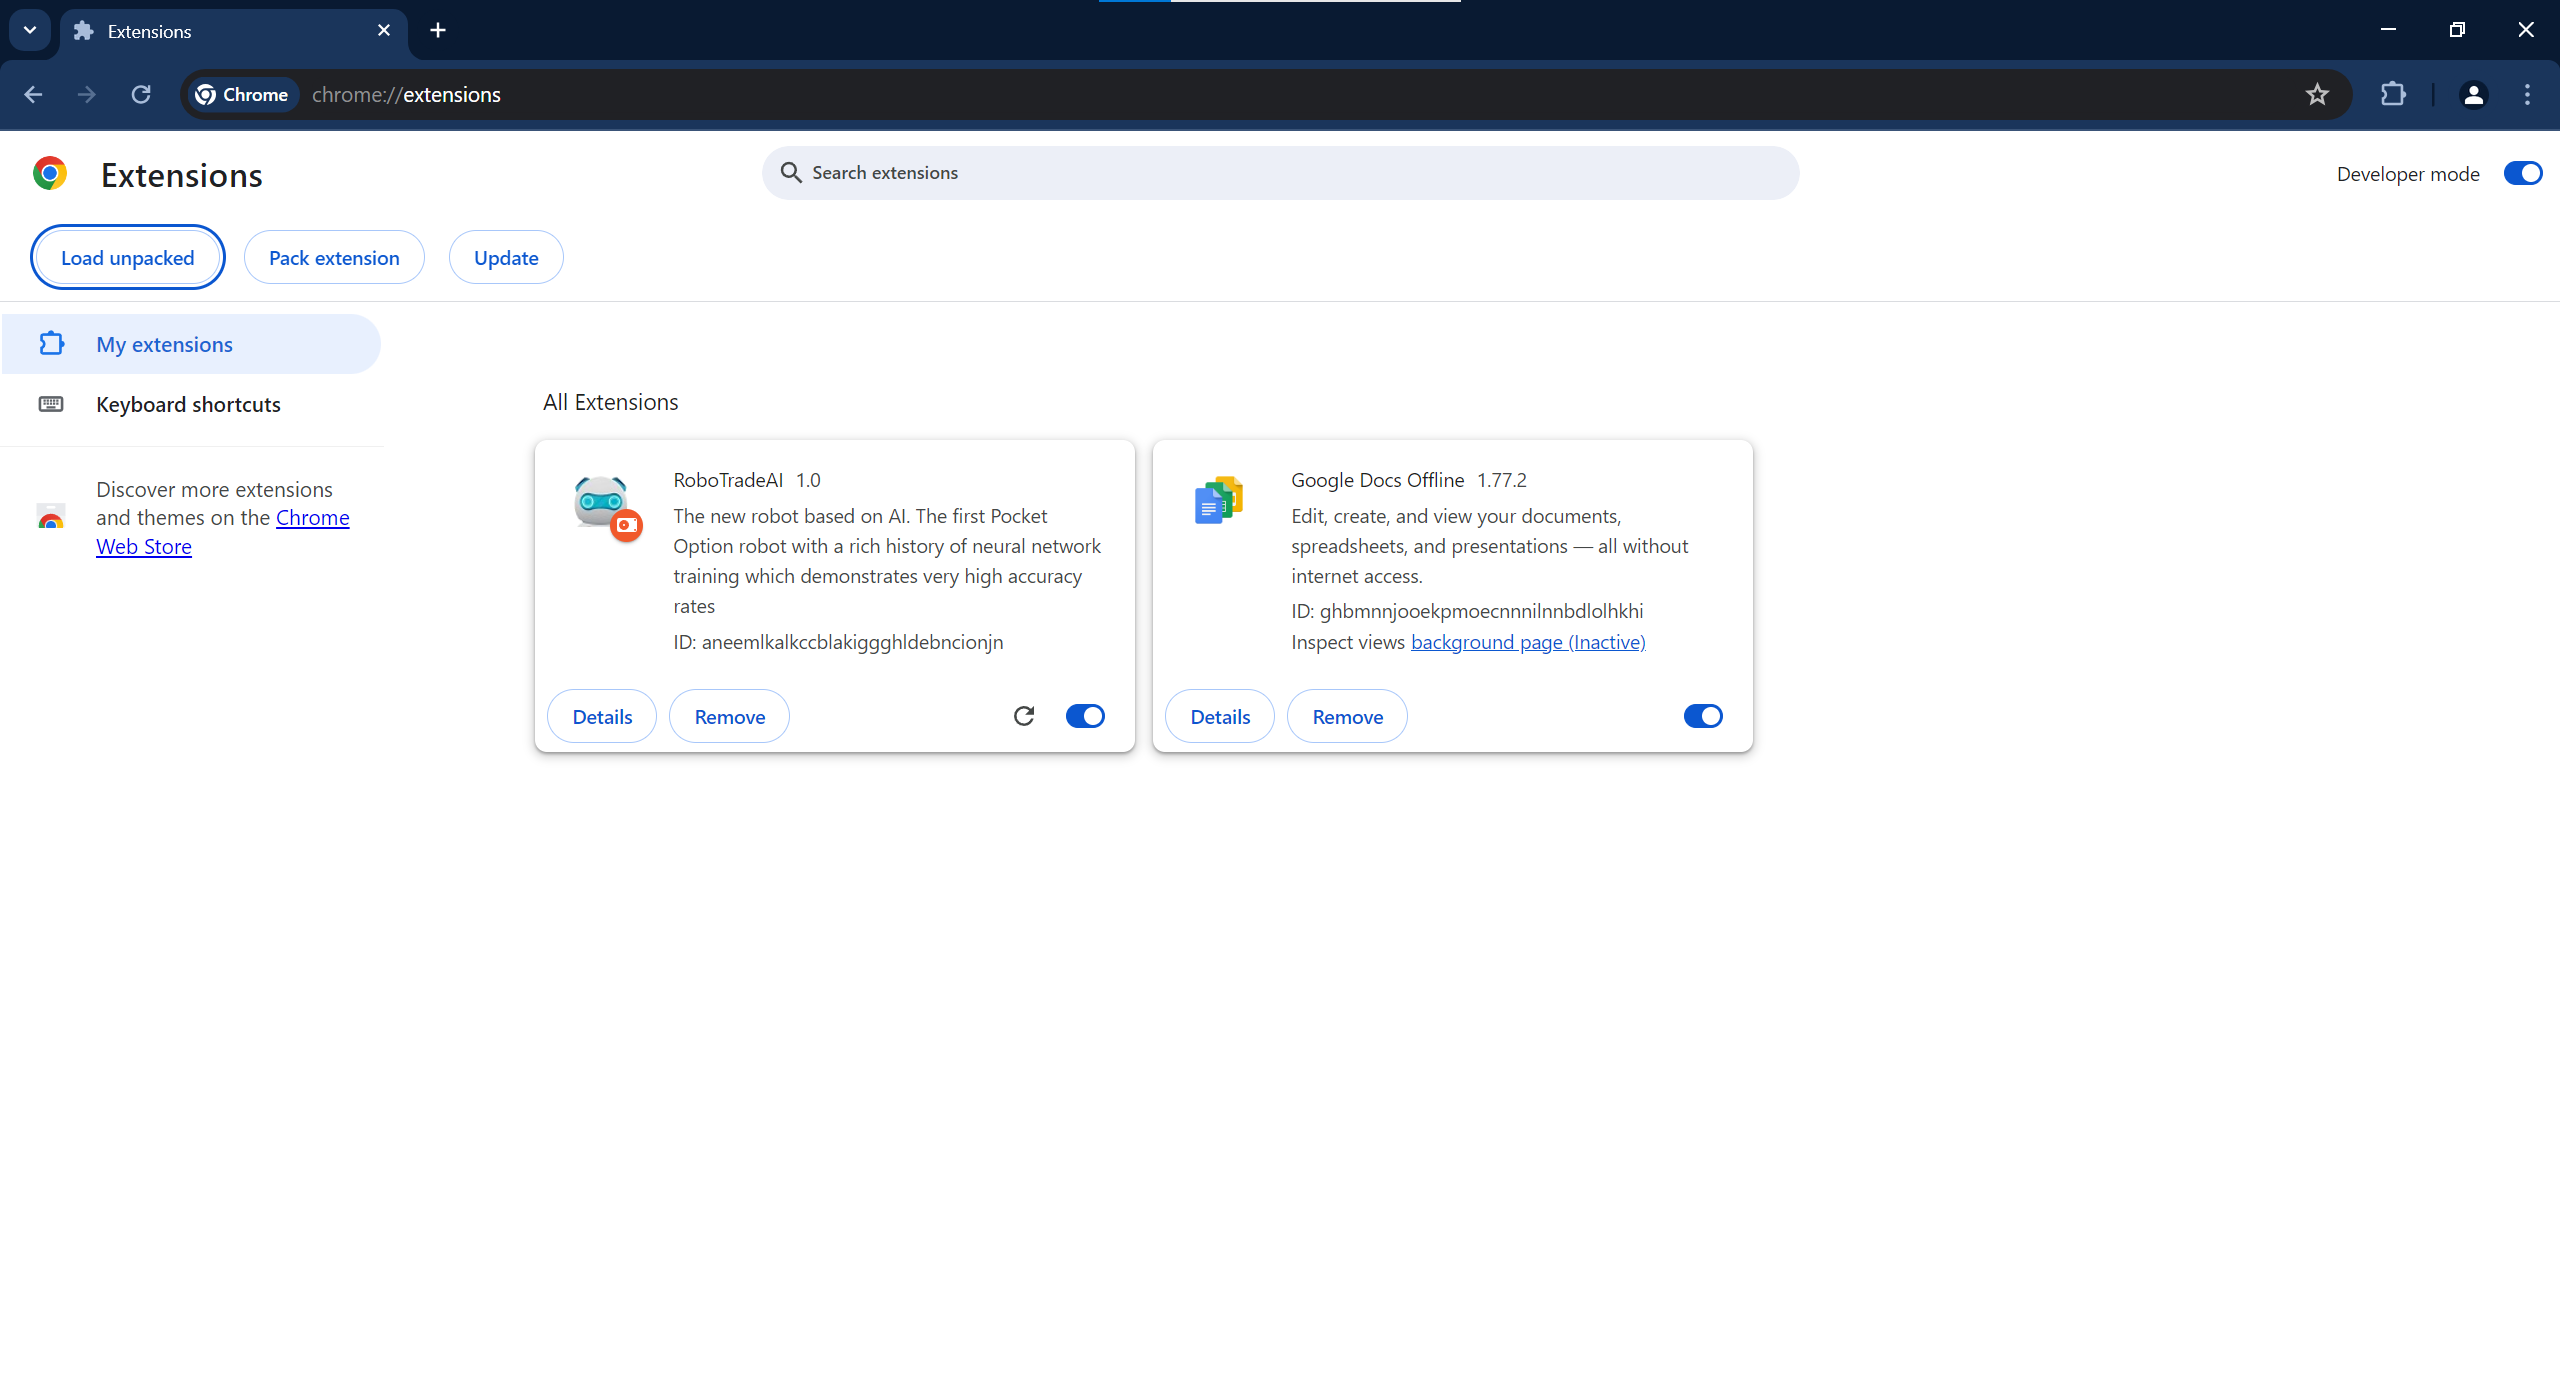
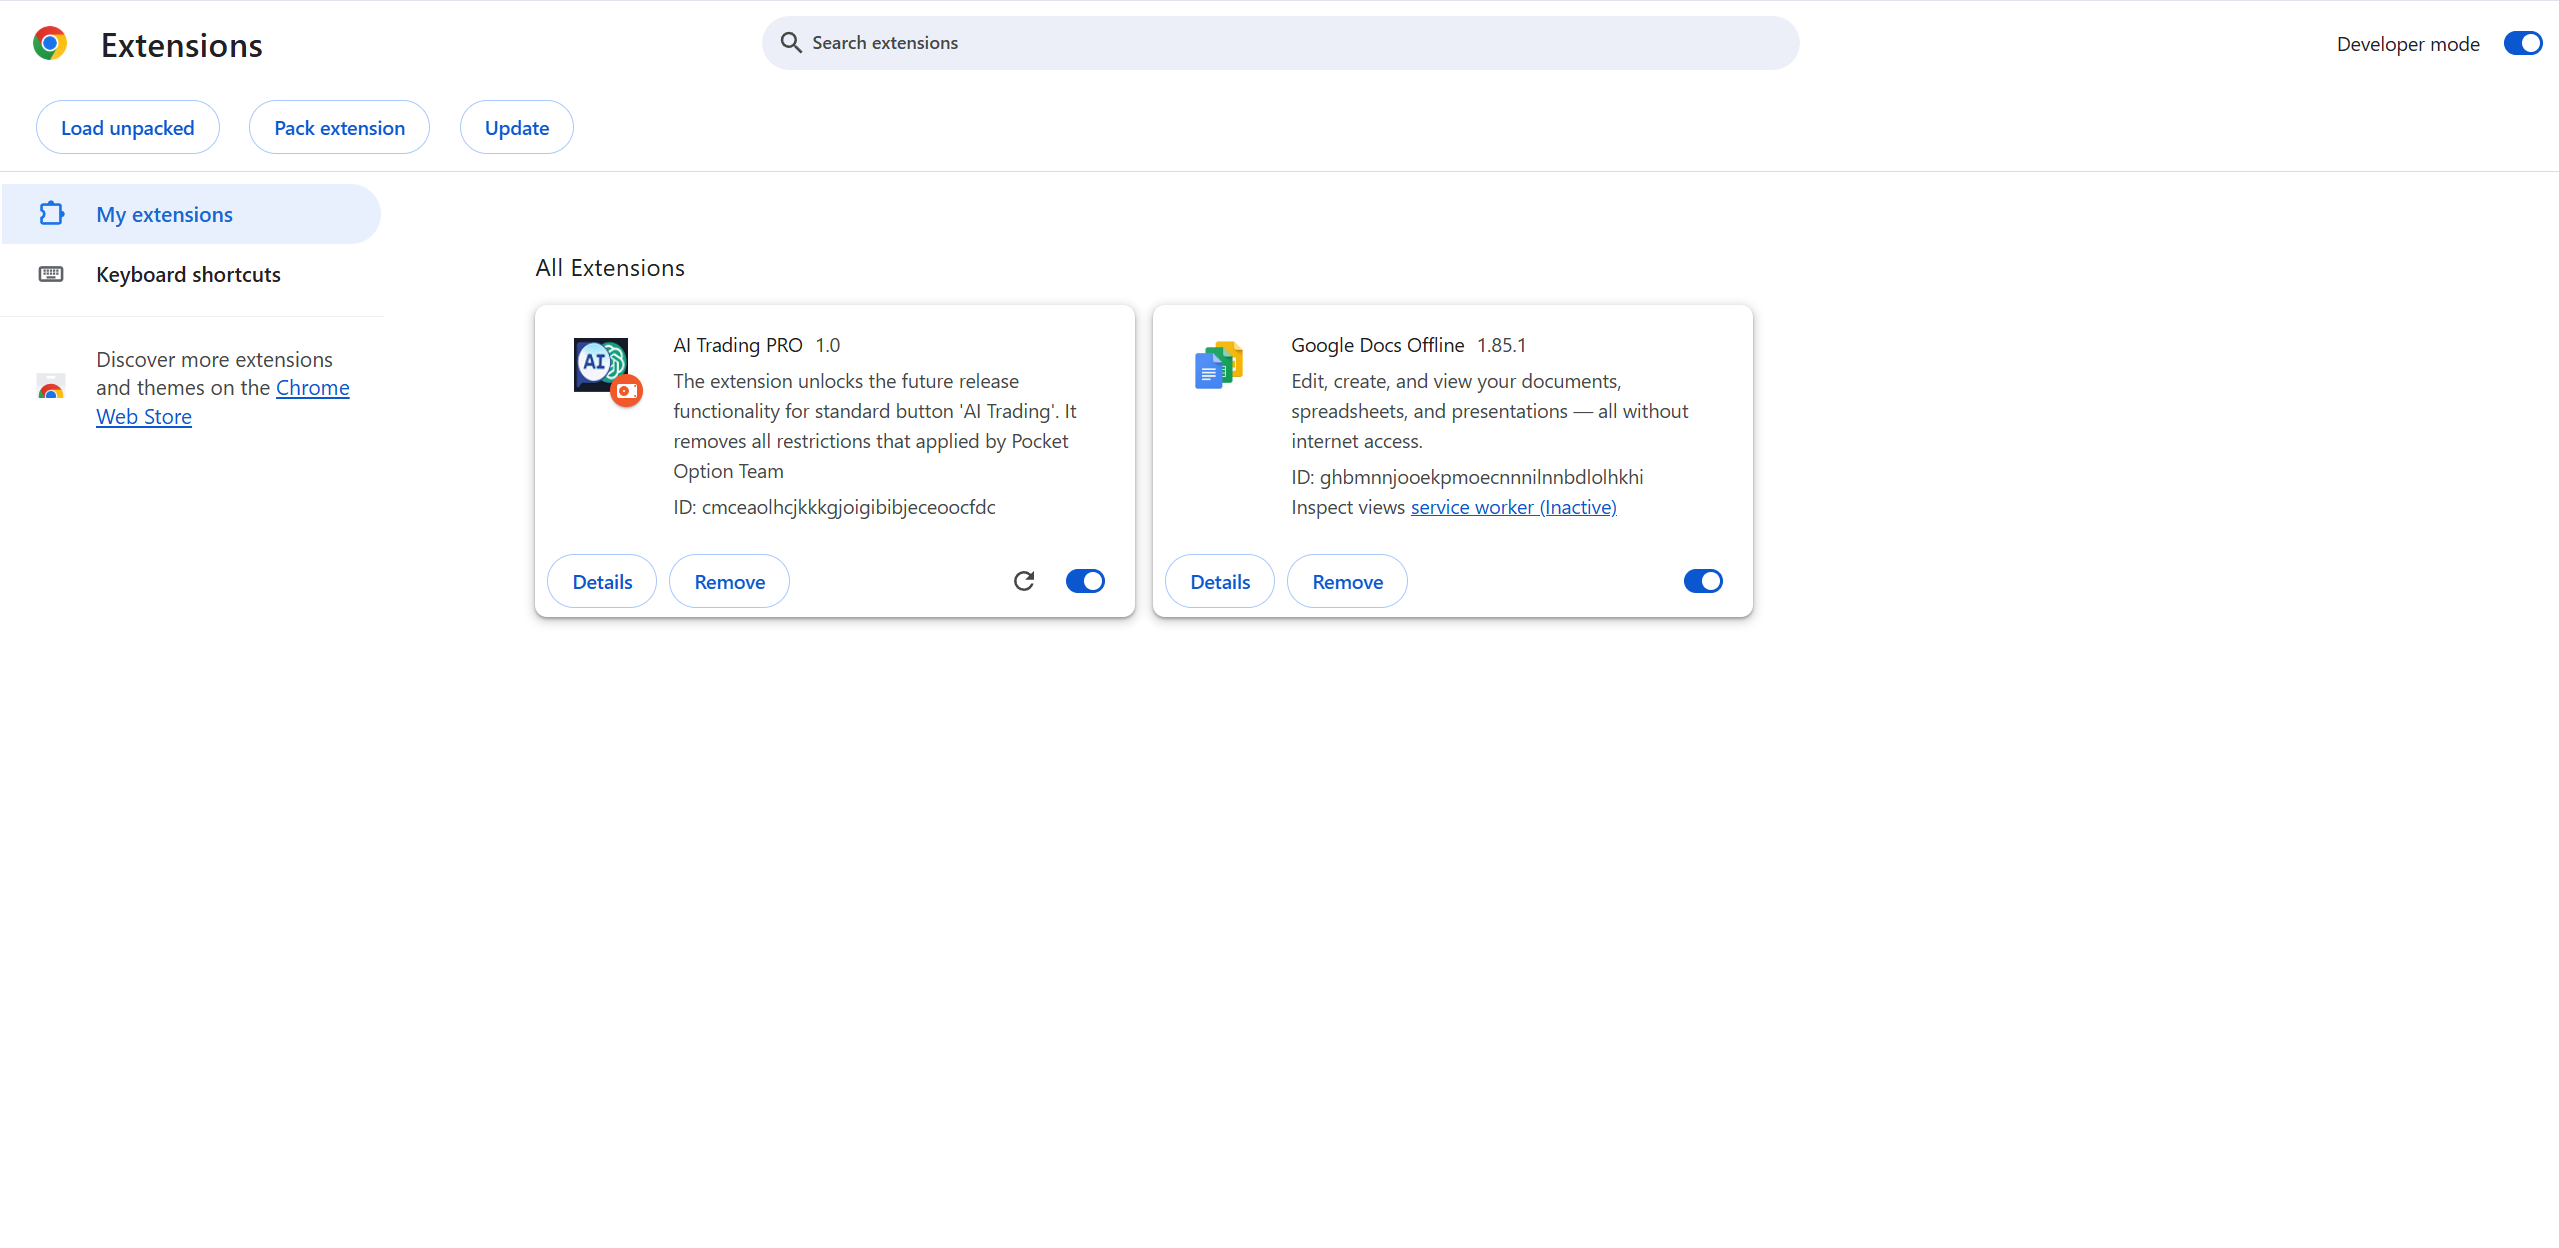
Ре-брендинг в GPT Trading. Initial commit

Changed region(s): [[0.0, 0.0, 1.0, 0.4062], [0.2161, 0.25, 0.6792, 0.5625], [0.1852, 0.1875, 0.247, 0.2188]]

diff --git a/answers.js b/answers.js
@@ -15,8 +15,8 @@ const sendNavigationMenu = async (bot, msg) => {
     await bot.sendMessage(msg.chat.id, `Choose the navigation option below 👇`, {
         reply_markup: {
             keyboard: [
-                ['🤖 Get robot', '📝 How to use'],
-                ['🧠 How the robot works', '⚙ How to install robot']
+                ['֎🤖 Get robot', '📝 How to use extension'],
+                ['🧠 How the robot works', '⚙ How to install GPT Extension']
             ],
             one_time_keyboard: true
         }
@@ -24,44 +24,23 @@ const sendNavigationMenu = async (bot, msg) => {
 };
 
 const sendRobotDescriptionAndPurchaseMethod = async (bot, msg) => {
-    await bot.sendPhoto(msg.chat.id, './images/premium.png');
+    await bot.sendPhoto(msg.chat.id, './images/ai-trading-extension.png');
+    await bot.sendPhoto(msg.chat.id, './images/ai-trading-button.png');
     await bot.sendMessage(msg.chat.id, 
-        '📋 Our team provides work in three variations that differ in the purpose of their use\n\n' +
-        '1. <u>Basic</u>\n\n The robot is used as an assistant for your trading and is not used independently to make decisions on which way to put options.\n' + 
-        'This robot includes analysis algorithms based on the <i>RSI, MACD, Alligator and Stochastic Oscillator indicators.</i>\n\n' +
-        'By purchasing this version of robot you receive:\n\n' +
-        '• Probability of loss <i>~29.76%</i>\n' +
-        '• The limit on the profit earned at the expense of the robot\n' +
-        '• The maximum number of profitable trades per day received at the expense of the robot is <i>7</i>\n\n' +
-        '<i>💲 Price: <s>99$</s> 59$</i>\n\n' +
-        "2. <u>Standard</u>\n\n You get a robot that automatically puts options at the touch of a button." + 
-        "You don't need to analyze the market yourself. The robot will do it for you\n" +
-        'The robot uses K-means clustering and Gaussian mixture model algorithms. \n' +
-        'This version is trained using 53 models since 2020 based on market history since 1989,' + 
-        'which means that the robot almost accurately determines price movement at any time, since it has already analyzed a similar historical situation\n\n' +
-        'By purchasing this version of smart robot you receive to follow:\n\n' +
-        '• Probability of loss <i>~2.31%</i>\n' +
-        '• The maximum daily limit of profit trades by robot: <b>30</b>\n' +
-        '• The maximum of successful options in row by robot: <b>7</b>\n' +
-        '• The detailed guide on when to use the robot most effectively\n' +
-        '• The personal manager to support all your robot trading process\n' +
-        '• The limit on the profit received from the robot is $5,000 per day\n\n' +
-        '<i>💲 Price: <s>150$</s> 119$</i>\n\n' +
-        '3. <u>Premium ⭐(photo)</u>. You will get the smartest version of robot and removed limits from Standard\n\n' +
-        'By purchasing this version of smart robot you receive to follow:\n\n' +
-        '• Probability of loss <i>~0.37%</i>' +
-        '• The maximum daily limit of profit trades by robot: <b>∞</b>\n' +
-        '• The maximum of successful options in row by robot: <b>∞</b>\n' +
-        '• The detailed guide on when to use the robot most effectively\n' +
-        '• The personal manager to support all your robot trading process\n' +
-        '• The limit on the profit received from the robot is <b>∞</b> per day\n\n' +
-        '<i>💲 Price: <s>899$</s> 499$</i>\n\n' +
-        '👉 If you have any questions you can ask it here: <i>@robotradeaimanager</i>',
+        '🧾 We provide two methods of purchasing extension functionality\n\n' +
+        '1. 💳 Fix price.\n' +
+        'You can choose the preferred payment method and buy access to extension.\n' +
+        "This method doesn't require re-register your main account in order to become our partner\n" +
+        "Once you pay - you have unlimitted extension licence.\n\n" +
+        '2. 🆓 Free method.\n' +
+        'You get an extension after you become our partner. You need to register a new account by our link ' +
+        'and after that the manager gives you extension files\n\n' +
+        'Choose the preferred one 👇👇👇',
         {
             parse_mode: 'HTML',
             reply_markup: {
                 keyboard: [
-                    ['💳 I want to get a robot']
+                    ['💳 Fix price', '🆓 Free']
                 ],
                 one_time_keyboard: true
             }
@@ -83,12 +62,12 @@ const sendFreePurchaseCountry = async (bot, msg) => {
 
 const sendFreePurchaseSteps = async (bot, msg) => {
     await bot.sendMessage(msg.chat.id, 
-        '👇👇👇 Below is step-by-step instruction for getting a robot\n\n' +
+        '👇👇👇 Below is step-by-step instruction for getting an extension\n\n' +
         '🔗 1. Register a new account using the link provided below\n' +
-        '🔝 2. Top up your account balance minimum at least 50$\n' +
-        '✍🏽 3. Copy your ID from profile tab (photo below) and send to robot in message field\n' +
-        '🤖 4. If your profile is registered correctly, the robot generates the extension for you\n\n' + 
-        '👉 Register link: <a href="https://pocket1.click/smart/4jlv8RwNpcPNtF">Go and register</a>\n\n' +
+        '🔝 2. Top up your account balance minimum at 100$\n' +
+        '✍🏽 3. Copy your ID from profile tab (photo below) and send to TG bot in message field\n' +
+        '🤖 4. If your profile is registered correctly, the TG bot generates the extension for you\n\n' + 
+        '👉 Register link: <a href="https://u.shortink.io/smart/4jlv8RwNpcPNtF">Go and register</a>\n\n' +
         '💡💡💡 <i>Advice: We highly recommend to top up your account with <b>200$</b></i>', {
             parse_mode: 'HTML',
             reply_markup: {
@@ -99,14 +78,13 @@ const sendFreePurchaseSteps = async (bot, msg) => {
             }
         }
     );
-    await bot.sendPhoto(msg.chat.id, './images/profile-id.png');
 };
 
 const sendCheckProfileID = async (bot, msg) => {
-    await bot.sendMessage(msg.chat.id, 'Send your profile ID here in the following format: <b>ID: [your profile ID]</b>', {
+    await bot.sendMessage(msg.chat.id, 'Send your <i>profile ID</i> <b>here in the chat</b>', {
         parse_mode: 'HTML'
     });
-    sendNavigationMenu(bot, msg);
+    //sendNavigationMenu(bot, msg);
 };
 
 const sendCheckProfileIDRussian = async (bot, msg) => {
@@ -234,15 +212,11 @@ const sendPaidPurchaseByEthereum = async (bot, msg, price) => {
 
 const sendHowToUseRobot = async (bot, msg) => {
     await bot.sendMessage(msg.chat.id, 
-        '✅ 1. Install the extension that our manager provided\n<i>For more information on the installation instructions, see the <b>«Install extension» section</b></i>\n' +
-        '✅ 2. In the amount field, enter the amount of the transaction you want the robot to open\n' +
-        '✅ 3. Choose «Use overlap» checkbox to turn on overlap mode.\n' +
-        '✅ 4. Choose «Is live trading» if you are going to trade real market (not OTC)\n' +
-        '✅ 5. Press «Start» button\n' + 
-        '✅ 6. The robot opens an option for the expiration time that you choose on the trading platform\n' +
-        "⚠ 7. Don't close the robot extension or active browser tab. This may result in the robot not functioning correctly\n" +
-        '✅ 8. Wait for the robot to analyze\n' +
-        '✅ 9. Take your profit 💲💲💲',
+        '✅ 1. Install the provided extension\n<i>For detail information on how to install Chrome extension, click the <b>«How to install GPT Extension»</b> button in the main menu</i>\n\n' +
+        '✅ 2. Open the popup window clicking by <i>GPT Trading logo</i> in the right upper corner of the Chrome browser\n\n' +
+        '✅ 3. Then click <b>«Yes»</b> to activate the extension\n\n' +
+        '✅ 4. After that the AI Trading button changes the apperance to Red background with the label <b>«PRO»</b>\n\n' +
+        '✅ 5. The button is ready to use 💲💲💲\n',
         {
             parse_mode: 'HTML'
         }
@@ -252,15 +226,12 @@ const sendHowToUseRobot = async (bot, msg) => {
 
 const sendHowTheRobotWorks = async (bot, msg) => {
     await bot.sendMessage(msg.chat.id, 
-        '🧠🧠🧠 The bot is a trainable neural network using the elastic propagation method\n' +
-        '🏋🏋🏋 The robot was developed in 2019 and has been trained for 5 years on the basis of market indicators over the past 25 years, which gives ultra-high indicators of forecasting accuracy\n' +
-        '🕗🕗🕗 The robot does not hack the brokerage infrastructure in any way and gives a forecast based on training from a sample of early forecasts\n\n' +
-        '<b>A statistics of robot accurancy by years: </b>\n' +
-        '• By 01.01.2020 - 67.49% of negative predictions\n' +
-        '• By 01.01.2021 - 38.24% of negative predictions\n' +
-        '• By 01.01.2022 - 11.71% of negative predictions\n' +
-        '• By 01.01.2023 - 4.28% of negative predictions\n' +
-        '• By 01.01.2024 - 0.487% of negative predictions',
+        "📜 GPT Trading is the seamless integration of Pocket Option's newly introduced AI trading functionality with the power of GPT-based artificial intelligence.\n" + 
+        "This innovation goes beyond analyzing the market using predefined patterns and signals — it actively minimizes unsuccessful trades with every subsequent use." + 
+        "Curious how it works? Let us explain. It’s no secret that GPT chat is a self-learning neural network that gained popularity for its ability to provide high-quality responses by analyzing data from the vast expanse of the internet." + 
+        "You’ve likely heard the phrases, “The internet remembers everything” and “History is cyclical.”\n\n" + 
+        "🧠 These principles form the foundation of our neural network model for financial market analysis — a system capable of predicting market movements with remarkable accuracy over specific time intervals." +
+        "Through sophisticated data analysis, the neural network processes critical metrics and real-world news updates, allowing you to focus on results rather than the complexities. Figuratively speaking, it’s like having a single button labeled “Get Money.”",
         {
             parse_mode: 'HTML'
         }

diff --git a/index.js b/index.js
@@ -21,7 +21,7 @@ sequelize.sync()
     })
     .catch(err => console.log(`Error sync: ${err}`));
 
-const bot = new TelegramBot(process.env.API_KEY, {
+const bot = new TelegramBot(process.env.API_GPT_TRADING, {
     polling: true
 });
 
@@ -47,26 +47,8 @@ bot.on('text', async msg => {
         else if (msg.text === '/contact') {
             answers.sendManagerContact(bot, msg);
         }
-        /*else if (msg.text.match(/\d+/)) {
-            answers.sendPersonalRobot(bot, msg);
-        }
-        else if (msg.text.includes("ID:")) {
-            answers.sendProfileIDIncorrectFormat(bot, msg);
-        }*/
-        else if (msg.text === '🤖 Get robot') {
+        else if (msg.text === '֎🤖 Get robot') {
             answers.sendRobotDescriptionAndPurchaseMethod(bot, msg);
-        }
-        /*else if (msg.text === '🤝 Partnership') {
-            answers.sendFreePurchaseSteps(bot, msg);
-        }*/
-        /*else if (msg.text === "🌎 I'm not from Russia") {
-            answers.sendFreePurchaseNotRussia(bot, msg);
-        }
-        else if (msg.text === 'Russia') {
-            answers.sendFreePurchaseRussia(bot, msg);
-        }*/
-        else if (msg.text === '💳 I want to get a robot') {
-            answers.sendChooseService(bot, msg);
         }
         else if (msg.text === 'Basic robot') {
             answers.sendBasicRobot(bot, msg);
@@ -113,6 +95,9 @@ bot.on('text', async msg => {
         else if (msg.text === '💳 Fix price') {
             answers.sendPaidPurchaseMethod(bot, msg);
         }
+        else if (msg.text === '🆓 Free') {
+            answers.sendFreePurchaseSteps(bot, msg);
+        }
         else if (msg.text === 'Bitcoin') {
             answers.sendPaidPurchaseByBitcoin(bot, msg);
         } 
@@ -122,14 +107,17 @@ bot.on('text', async msg => {
         else if (msg.text === 'Ethereum') {
             answers.sendPaidPurchaseByEthereum(bot, msg);
         }
-        else if (msg.text === '📝 How to use') {
+        else if (msg.text === '📝 How to use extension') {
             answers.sendHowToUseRobot(bot, msg);
         }
         else if (msg.text === '🧠 How the robot works') {
             answers.sendHowTheRobotWorks(bot, msg);
         }
-        else if (msg.text === '⚙ How to install robot') {
+        else if (msg.text === '⚙ How to install GPT Extension') {
             answers.sendHowToInstallRobot(bot, msg);
+        }
+        else if (msg.text.match(/\d+/)) {
+            answers.sendPersonalRobot(bot, msg);
         }
     }
     catch (err) {
